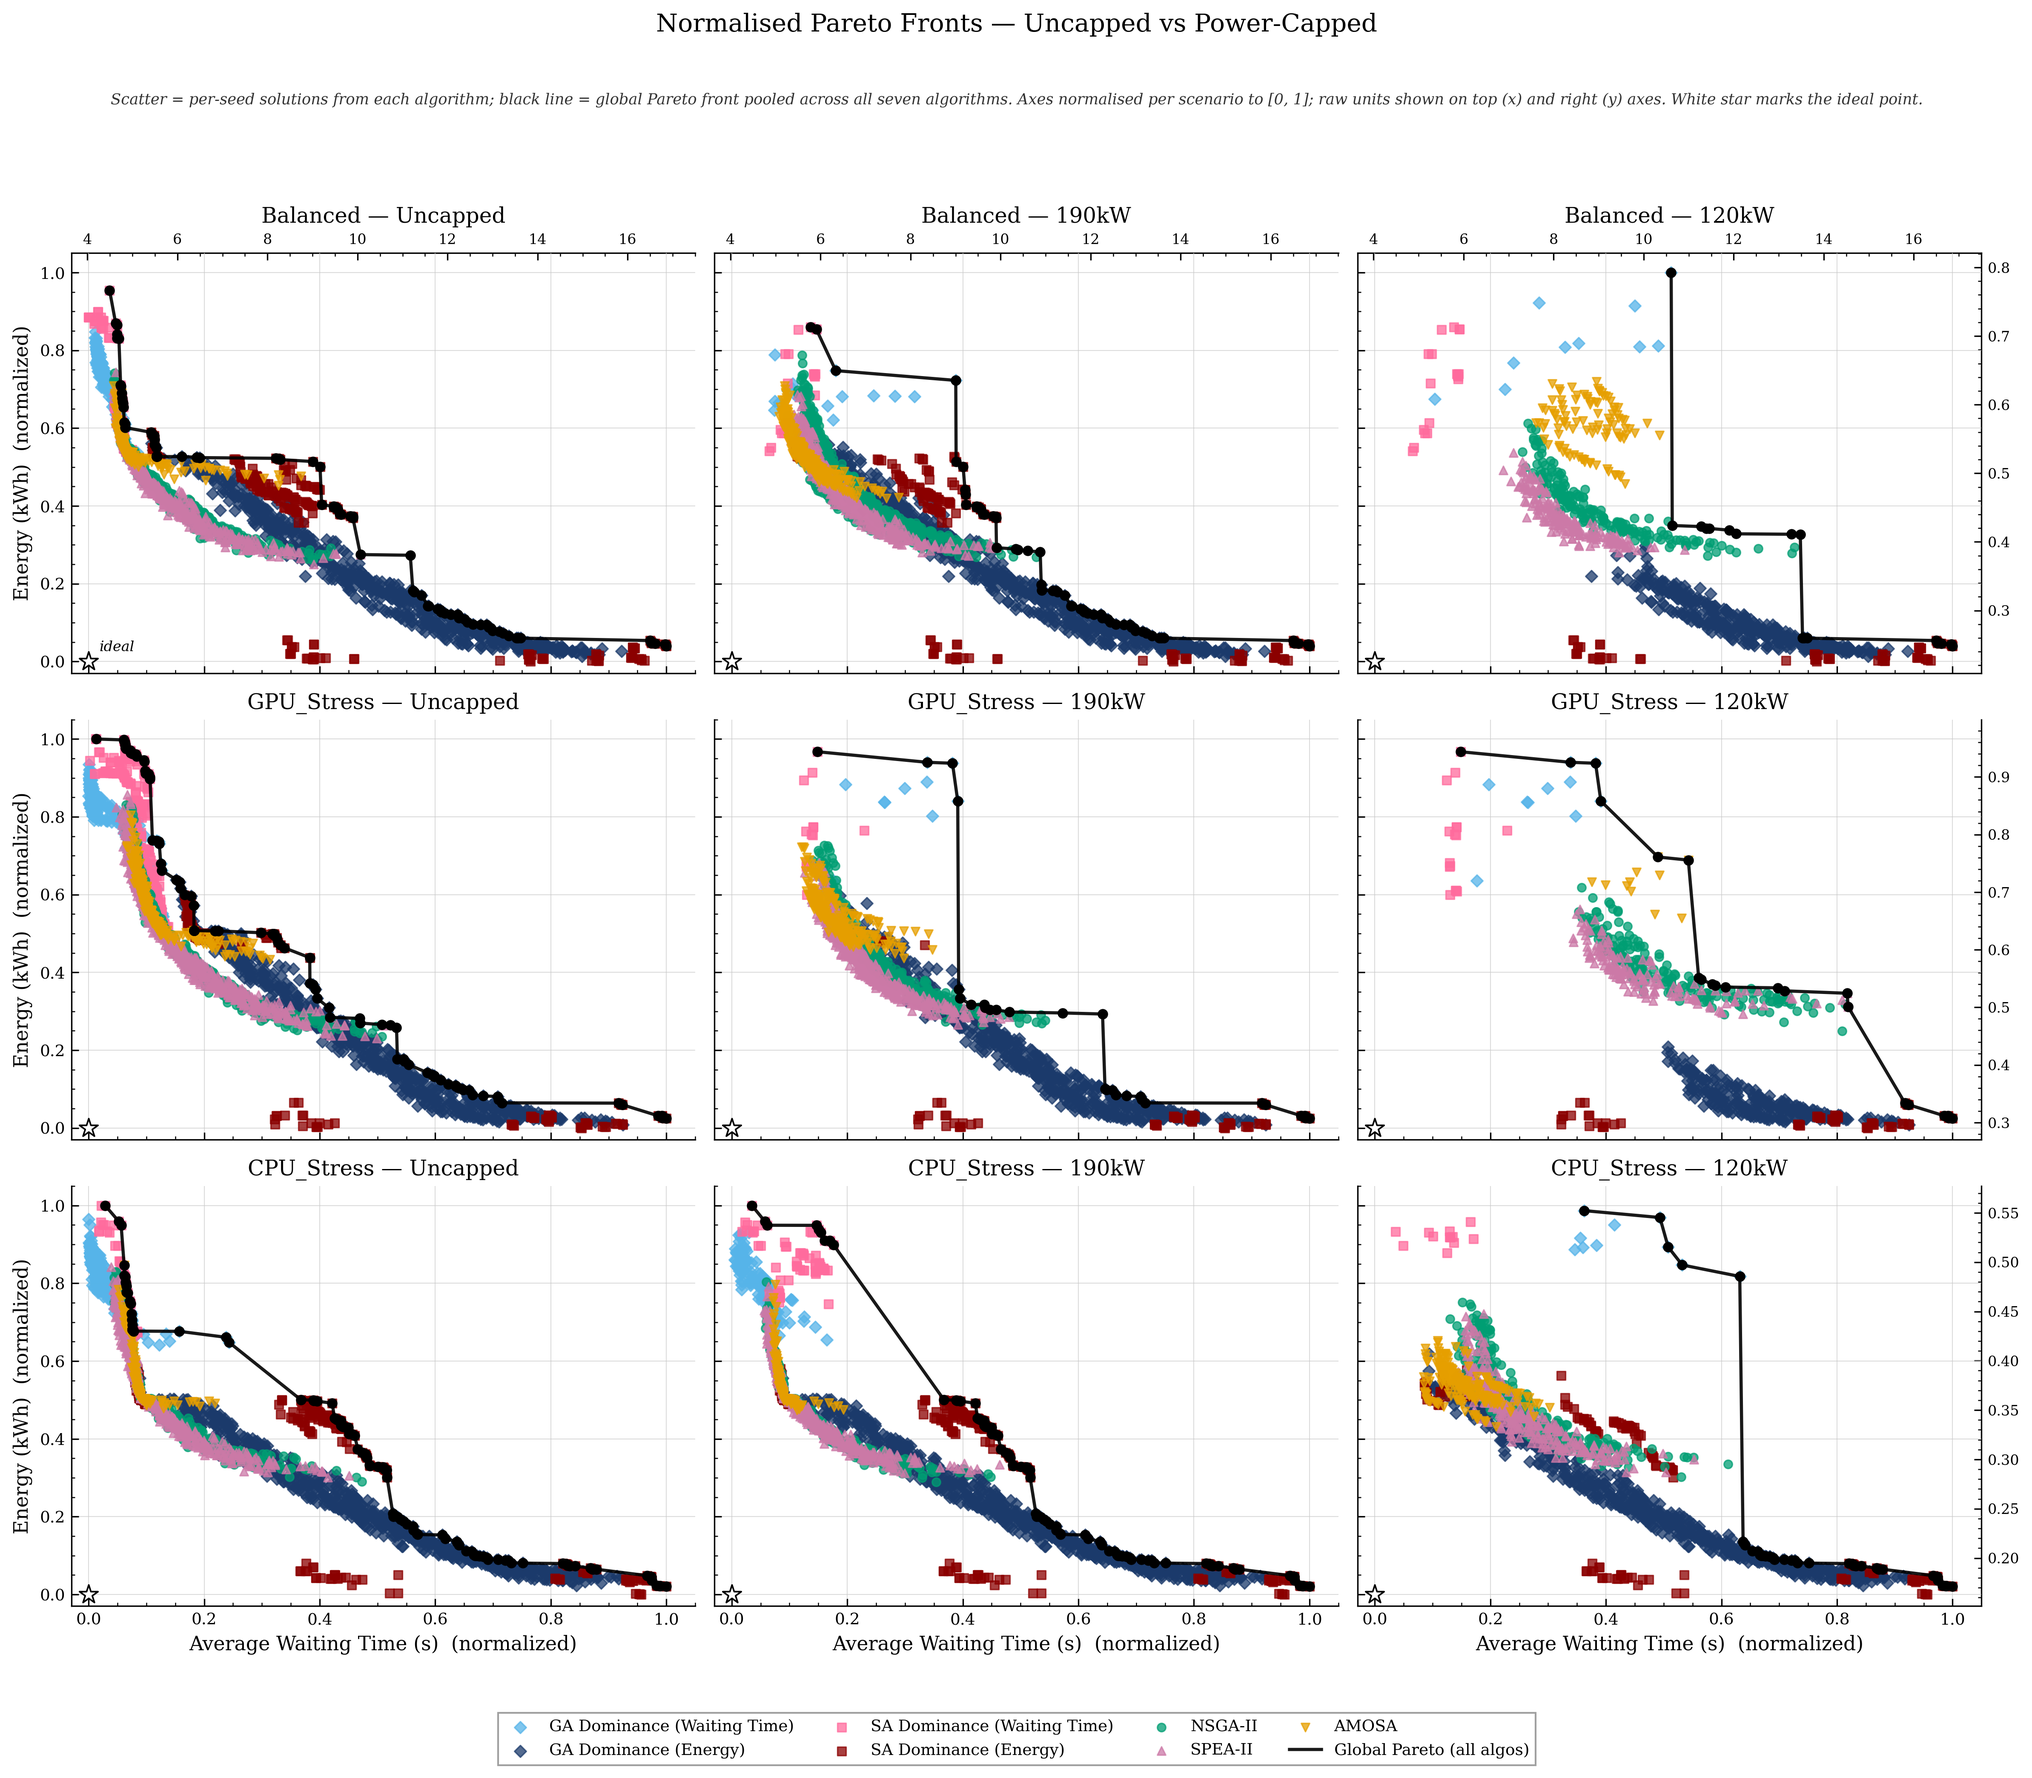
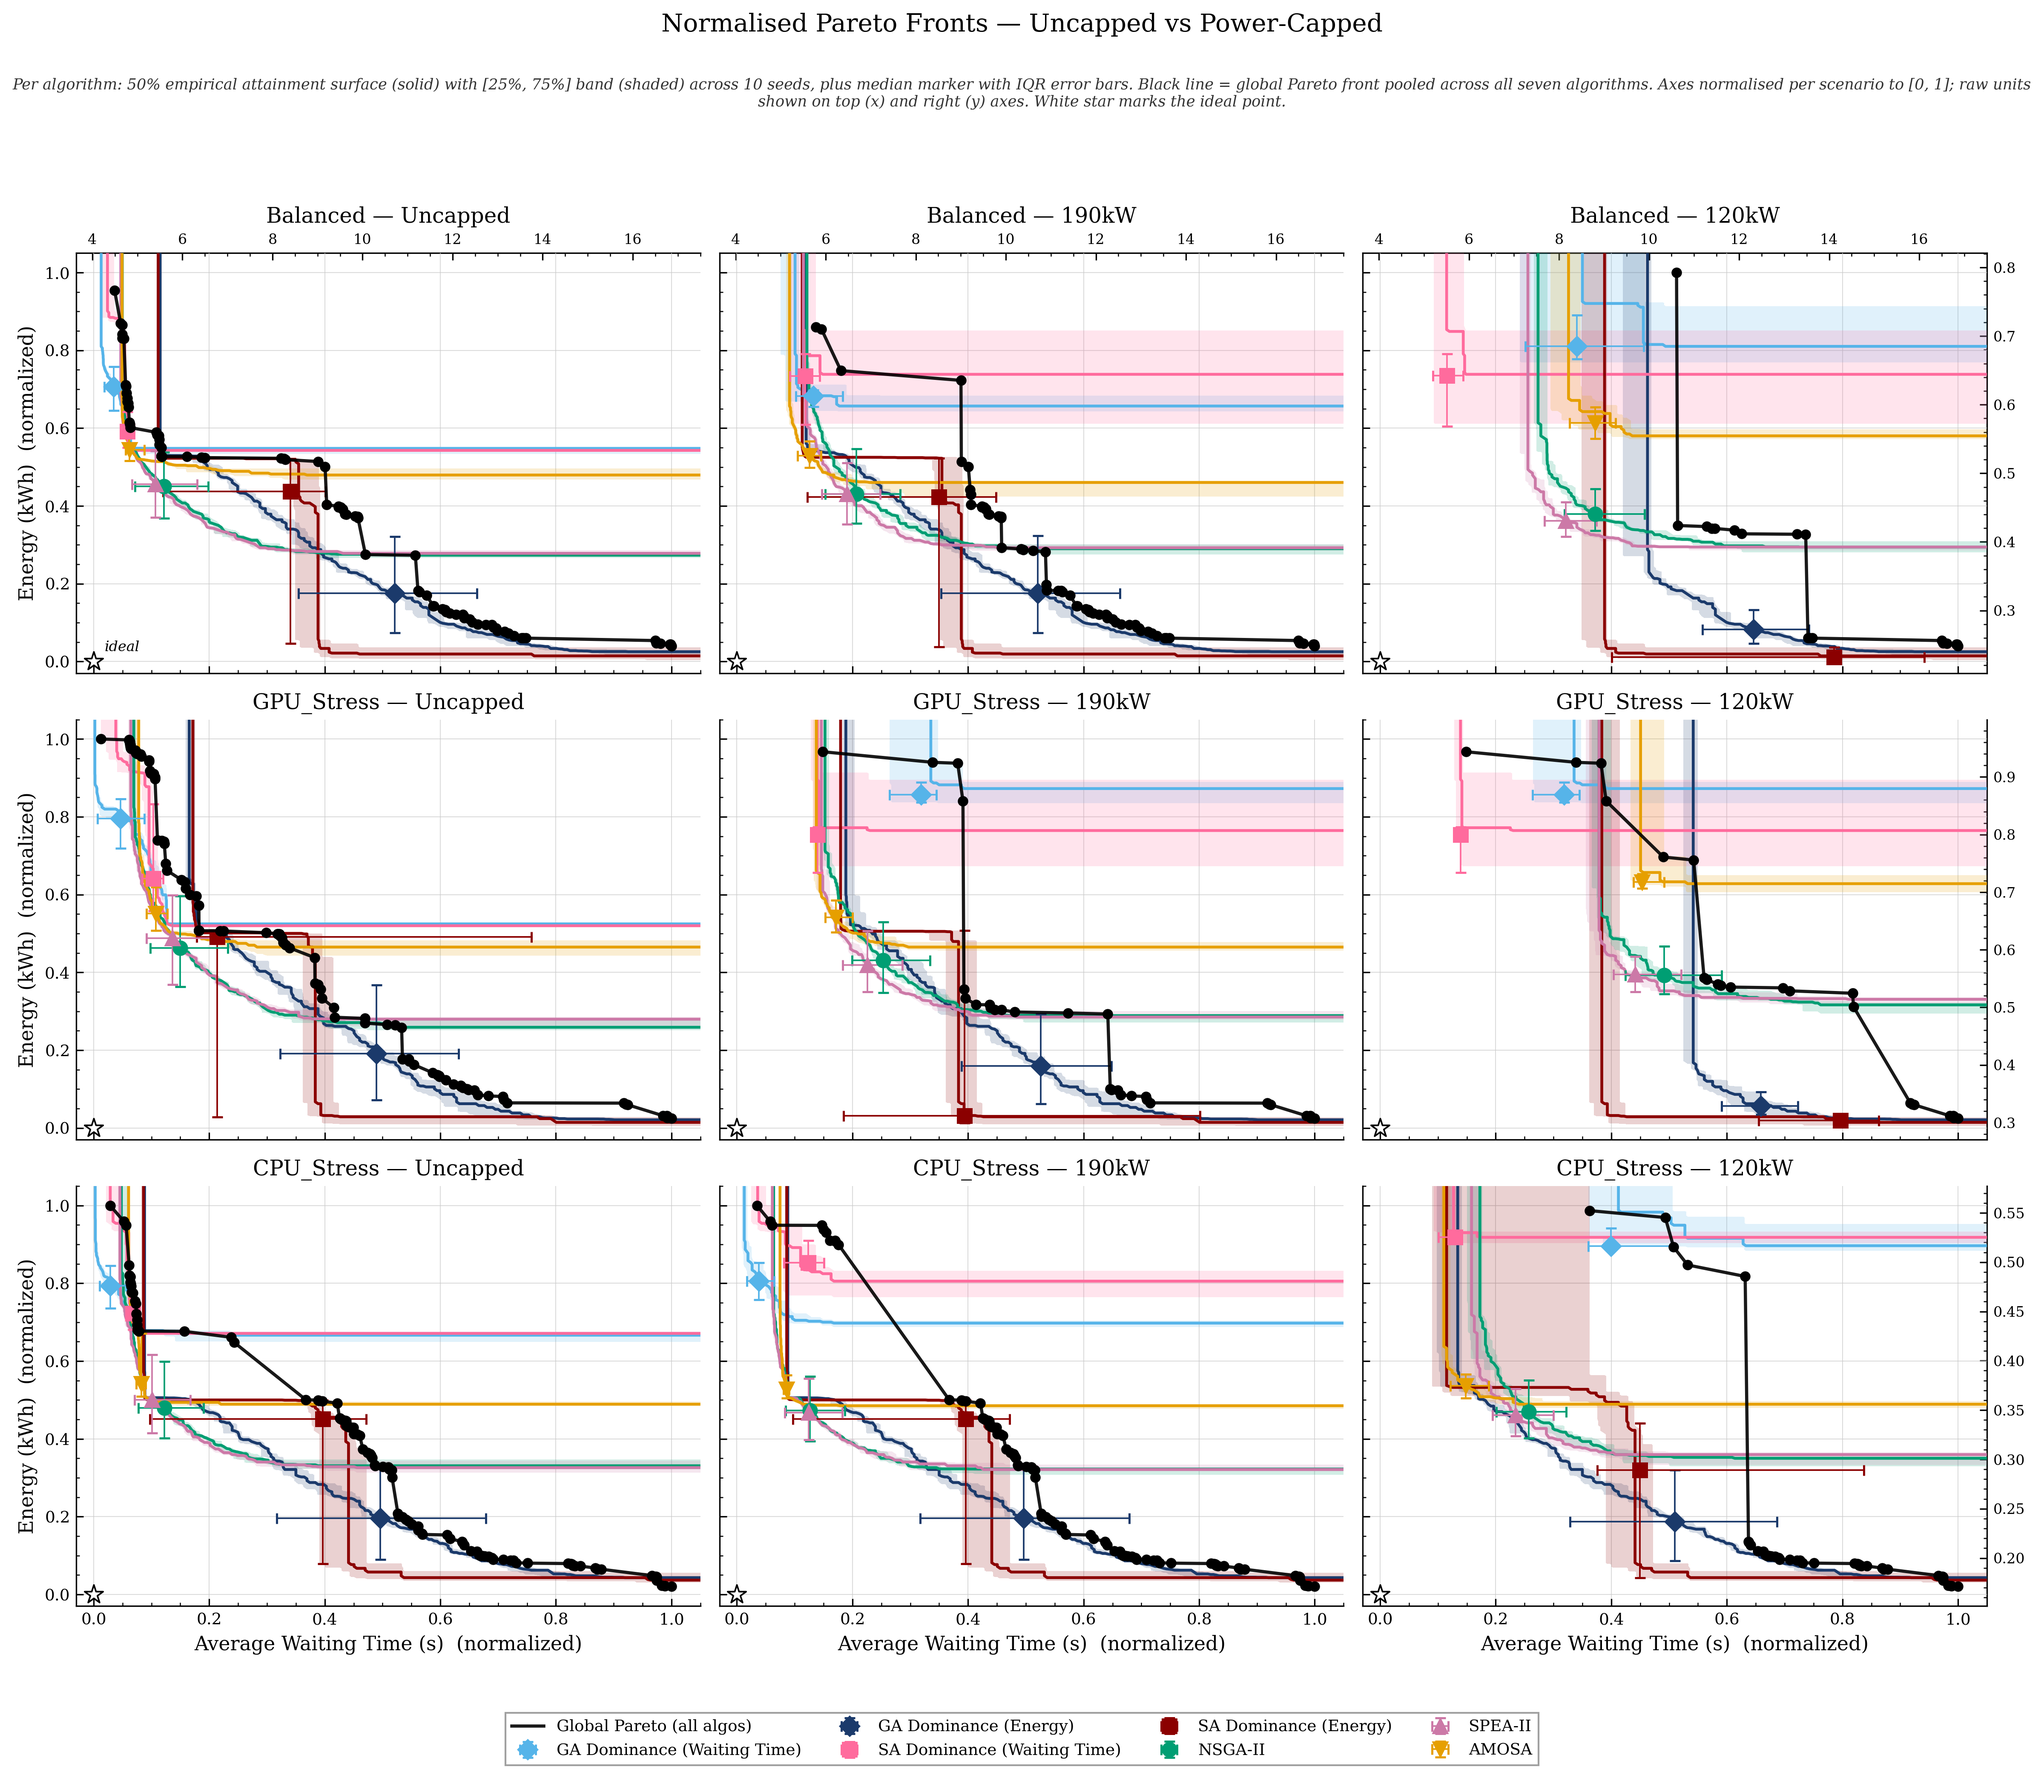
Render EAF 25-75% band, 50% median line, and IQR error bars
Pareto panels now match plot_scenario_pareto.py's multi-objective
rendering: empirical attainment function with shaded [25%, 75%] band
and a 50% median attainment line per algorithm across seeds, plus a
median-with-IQR error-bar summary marker layered on top. Caption
updated to describe the new layers.

https://claude.ai/code/session_01RwY8GN9dvrAPdDZTnej5M7

diff --git a/scripts/compare_capped_uncapped.py b/scripts/compare_capped_uncapped.py
@@ -137,6 +137,52 @@ def non_dominated_mask(points):
     return keep
 
 
+def get_non_dominated(points):
+    """Return non-dominated points sorted by x (ported from plot_scenario_pareto.py)."""
+    if len(points) == 0:
+        return np.array([])
+    P = np.asarray(points, float)
+    mask = non_dominated_mask(P)
+    nd = P[mask]
+    if len(nd) == 0:
+        return np.array([])
+    # Deduplicate near-identical points before returning (stable sort by x).
+    out = []
+    for pt in nd:
+        if not any(abs(o[0] - pt[0]) < 1e-9 and abs(o[1] - pt[1]) < 1e-9
+                   for o in out):
+            out.append(pt)
+    out = np.asarray(out)
+    return out[np.argsort(out[:, 0])]
+
+
+def compute_eaf_grid(seed_fronts, grid_x, grid_y):
+    """Empirical attainment frequency across seeds on a 2-D grid.
+
+    Ported from scripts/plot_scenario_pareto.py. Returns an array of shape
+    (len(grid_y), len(grid_x)) with values in [0, 1].
+    """
+    N = len(seed_fronts)
+    if N == 0:
+        return np.zeros((len(grid_y), len(grid_x)))
+    thresholds = np.full((N, len(grid_x)), np.inf)
+    for i, front in enumerate(seed_fronts):
+        if len(front) == 0:
+            continue
+        order = np.argsort(front[:, 0])
+        fs = front[order]
+        cum_min = np.minimum.accumulate(fs[:, 1])
+        idx = np.searchsorted(fs[:, 0], grid_x, side='right') - 1
+        valid = idx >= 0
+        thresholds[i, valid] = cum_min[idx[valid]]
+    freq = np.zeros((len(grid_y), len(grid_x)))
+    for j in range(len(grid_x)):
+        col = np.sort(thresholds[:, j])
+        counts = np.searchsorted(col, grid_y, side='right')
+        freq[:, j] = counts / N
+    return freq
+
+
 def load_graph(scenario, reports_dir):
     """Concatenate uncapped + capped Pareto-graph rows for one scenario.
     Keeps every base algorithm so the global Pareto can be computed
@@ -173,6 +219,9 @@ def plot_fronts(reports_dir, out_dir, algo_ids):
     fig, axes = plt.subplots(len(SCENARIOS), len(CAP_LEVELS),
                              figsize=(16, 13), sharex=True, sharey=True)
 
+    grid_x = np.linspace(0.0, 1.05, 220)
+    grid_y = np.linspace(0.0, 1.05, 220)
+
     for row, (sid, sname) in enumerate(SCENARIOS):
         full = load_graph(sid, reports_dir)
         # Only keep the seven base algorithms (drops admission-control and
@@ -194,19 +243,58 @@ def plot_fronts(reports_dir, out_dir, algo_ids):
             sub_full = full[full["CapLevel"] == cap_label]
             sub_sel = sub_full[sub_full["BaseAlgorithm"].isin(selected)]
 
+            # EAF per algorithm: 50% median attainment line + [25%, 75%] band,
+            # plus a median-with-IQR error-bar summary marker on top.
+            # Matches the multi-objective rendering in plot_scenario_pareto.py.
             for base in selected:
                 s = sub_sel[sub_sel["BaseAlgorithm"] == base]
                 if s.empty:
                     continue
                 color, marker, filled, display = get_style(base)
                 face = color if filled else 'none'
-                x = (s["WaitingTime"] - wt_min) / wt_rng
-                y = (s["Energy"] - e_min) / e_rng
-                ax.scatter(
-                    x, y, s=22, marker=marker,
-                    facecolors=face, edgecolors=color, linewidths=0.8,
-                    alpha=0.75, label=display, zorder=3,
-                )
+                pts_norm = s[["WaitingTime", "Energy"]].to_numpy(float)
+                pts_norm[:, 0] = (pts_norm[:, 0] - wt_min) / wt_rng
+                pts_norm[:, 1] = (pts_norm[:, 1] - e_min) / e_rng
+                seed_fronts = []
+                for _, seed_df in s.groupby("Seed"):
+                    pts = seed_df[["WaitingTime", "Energy"]].to_numpy(float)
+                    pts[:, 0] = (pts[:, 0] - wt_min) / wt_rng
+                    pts[:, 1] = (pts[:, 1] - e_min) / e_rng
+                    nd = get_non_dominated(pts)
+                    if len(nd) > 0:
+                        seed_fronts.append(nd)
+                if seed_fronts:
+                    freq = compute_eaf_grid(seed_fronts, grid_x, grid_y)
+                    try:
+                        ax.contourf(grid_x, grid_y, freq, levels=[0.25, 0.75],
+                                    colors=[color], alpha=0.18, zorder=2)
+                    except ValueError:
+                        pass
+                    try:
+                        ax.contour(grid_x, grid_y, freq, levels=[0.5],
+                                   colors=[color], linewidths=1.6, zorder=4)
+                    except ValueError:
+                        pass
+
+                # Median + IQR marker across all Pareto points for this algo.
+                if len(pts_norm) > 0:
+                    mx = float(np.median(pts_norm[:, 0]))
+                    my = float(np.median(pts_norm[:, 1]))
+                    qx = np.percentile(pts_norm[:, 0], [25, 75])
+                    qy = np.percentile(pts_norm[:, 1], [25, 75])
+                    xerr = [[max(mx - qx[0], 0.0)], [max(qx[1] - mx, 0.0)]]
+                    yerr = [[max(my - qy[0], 0.0)], [max(qy[1] - my, 0.0)]]
+                    ax.errorbar(
+                        mx, my, xerr=xerr, yerr=yerr,
+                        fmt=marker, markersize=7.5,
+                        markerfacecolor=face, markeredgecolor=color,
+                        markeredgewidth=1.2,
+                        ecolor=color, elinewidth=0.9, capsize=3, capthick=0.9,
+                        label=display, zorder=5,
+                    )
+                else:
+                    # Fall back to a proxy handle so the legend is still complete.
+                    ax.plot([], [], color=color, linewidth=1.6, label=display)
 
             # Global Pareto: best of best across ALL seven algorithms,
             # independent of --algorithms selection. Rendered in the
@@ -277,10 +365,12 @@ def plot_fronts(reports_dir, out_dir, algo_ids):
         y=1.02,
     )
     caption = (
-        'Scatter = per-seed solutions from each algorithm; black line = '
-        'global Pareto front pooled across all seven algorithms. '
-        'Axes normalised per scenario to [0, 1]; raw units shown on top '
-        '(x) and right (y) axes. White star marks the ideal point.'
+        'Per algorithm: 50% empirical attainment surface (solid) with '
+        '[25%, 75%] band (shaded) across 10 seeds, plus median marker with '
+        'IQR error bars. Black line = global Pareto front pooled across all '
+        'seven algorithms. Axes normalised per scenario to [0, 1]; raw '
+        'units shown on top (x) and right (y) axes. White star marks the '
+        'ideal point.'
     )
     fig.text(0.5, 0.965, caption, ha='center', fontsize=8.5,
              style='italic', color='#333333', wrap=True)
